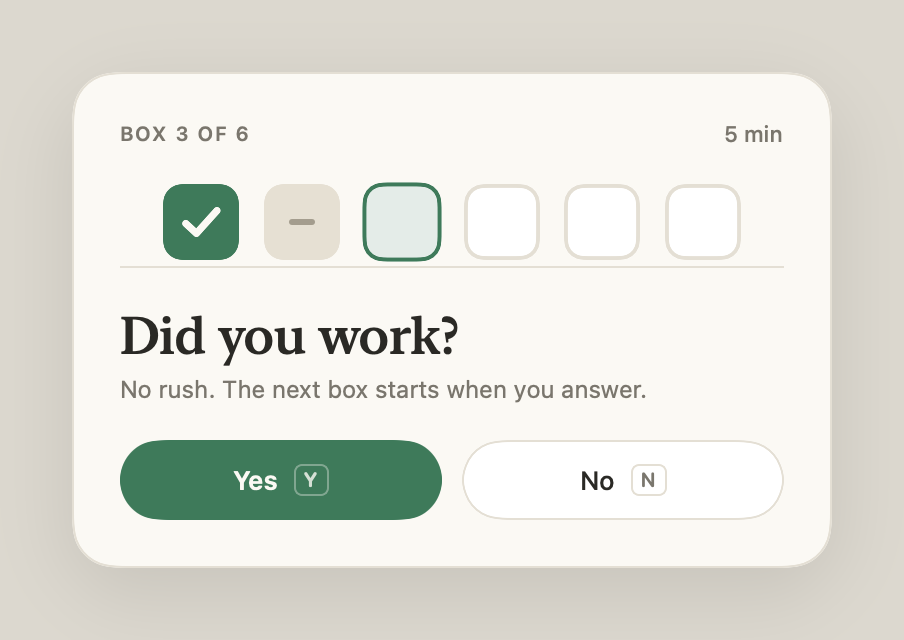
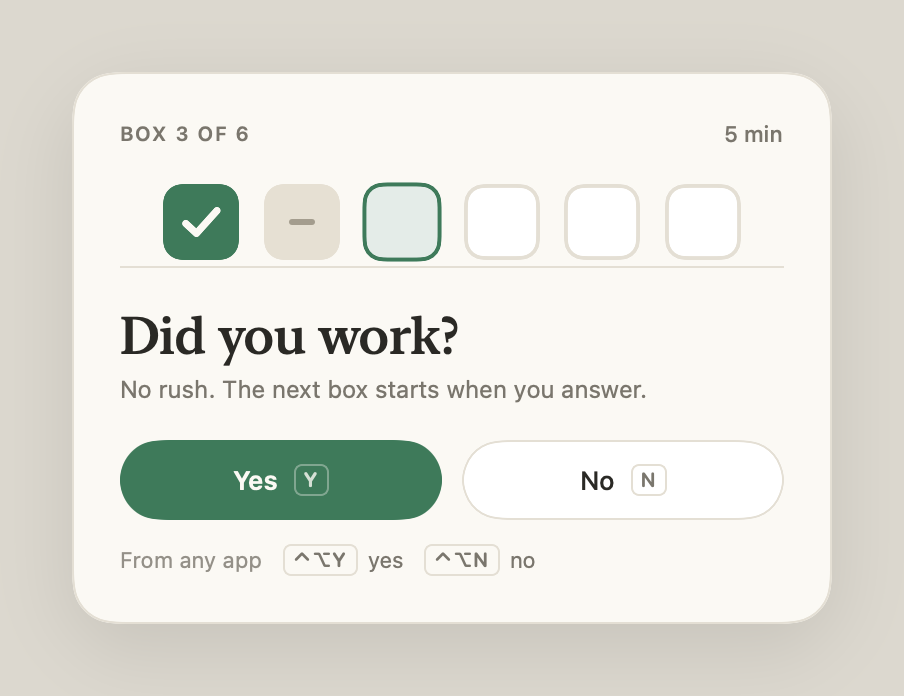
Answer check-ins from any app with ⌃⌥Y / ⌃⌥N (⌃⌥S on the last box)
While a check-in is pending, register global hotkeys that answer it
directly without focusing the card: ⌃⌥Y = yes, ⌃⌥N = no, and on the
last box ⌃⌥S = yes + start the next sprint. They are registered when the
engine enters awaitingCheckIn and released as soon as it leaves (answered,
cancelled, etc.), so the keys belong to other apps the rest of the time.
The card itself still never takes keyboard focus.

HotKey now supports several shortcuts at once: each gets a distinct
EventHotKeyID, and one shared Carbon handler routes presses by id
(read via GetEventParameter). Registration failures are logged; a taken
shortcut is hidden from the card. status.json lists the active
check-in shortcuts under "checkInHotKeys". ⌃⌥B is unchanged.

The check-in card shows a subtle "From any app" hint row with the keys.

diff --git a/Sources/Breadcrumbs/Services.swift b/Sources/Breadcrumbs/Services.swift
@@ -54,32 +54,76 @@ enum LoginItem {
     }
 }
 
+/// Global shortcuts that answer a pending check-in from any app. Registered only while a
+/// check-in is waiting, so they never shadow ⌃⌥Y/N/S in other apps the rest of the time.
+enum CheckInShortcut {
+    static let yes = "⌃⌥Y"
+    static let no = "⌃⌥N"
+    static let next = "⌃⌥S"
+}
+
 /// A system-wide shortcut via Carbon's RegisterEventHotKey (no Accessibility permission needed).
+/// Several can coexist: each gets its own EventHotKeyID, and one shared app-level handler
+/// routes a press to the instance whose id fired. Unregistered when the instance is released.
+/// Main thread only.
 final class HotKey {
     static let displayString = "⌃⌥B"
 
+    private static let signature = OSType(0x4252_4443) // 'BRDC'
+    private static var nextID: UInt32 = 1
+    private static var actions: [UInt32: () -> Void] = [:]
+    private static var handlerInstalled = false
+
+    let display: String
+    private let id: UInt32
     private var ref: EventHotKeyRef?
     private(set) var isRegistered = false
-    private var handlerRef: EventHandlerRef?
-    private let action: () -> Void
 
-    init(keyCode: Int = kVK_ANSI_B, modifiers: Int = controlKey | optionKey, action: @escaping () -> Void) {
-        self.action = action
-        var spec = EventTypeSpec(eventClass: OSType(kEventClassKeyboard), eventKind: UInt32(kEventHotKeyPressed))
-        let selfPtr = Unmanaged.passUnretained(self).toOpaque()
-        InstallEventHandler(GetApplicationEventTarget(), { _, _, userData in
-            guard let userData else { return noErr }
-            Unmanaged<HotKey>.fromOpaque(userData).takeUnretainedValue().action()
-            return noErr
-        }, 1, &spec, selfPtr, &handlerRef)
-        let id = EventHotKeyID(signature: OSType(0x4252_4443), id: 1) // 'BRDC'
-        let status = RegisterEventHotKey(UInt32(keyCode), UInt32(modifiers), id, GetApplicationEventTarget(), 0, &ref)
+    init(keyCode: Int = kVK_ANSI_B, modifiers: Int = controlKey | optionKey,
+         display: String = HotKey.displayString, action: @escaping () -> Void) {
+        self.display = display
+        id = Self.nextID
+        Self.nextID += 1
+        guard Self.installHandler() else { return }
+        let hotKeyID = EventHotKeyID(signature: Self.signature, id: id)
+        let status = RegisterEventHotKey(UInt32(keyCode), UInt32(modifiers), hotKeyID,
+                                         GetApplicationEventTarget(), 0, &ref)
         isRegistered = status == noErr
-        if !isRegistered { NSLog("Breadcrumbs: hotkey registration failed (\(status))") }
+        if isRegistered {
+            Self.actions[id] = action
+        } else {
+            ref = nil
+            NSLog("Breadcrumbs: hotkey \(display) registration failed (\(status)), likely taken by another app")
+        }
     }
 
-    deinit {
+    /// Releases the shortcut so other apps get the keystroke again.
+    func unregister() {
+        Self.actions[id] = nil
         if let ref { UnregisterEventHotKey(ref) }
-        if let handlerRef { RemoveEventHandler(handlerRef) }
+        ref = nil
+        isRegistered = false
+    }
+
+    deinit { unregister() }
+
+    /// Installs the one shared handler (kept for the app's lifetime).
+    private static func installHandler() -> Bool {
+        if handlerInstalled { return true }
+        var spec = EventTypeSpec(eventClass: OSType(kEventClassKeyboard), eventKind: UInt32(kEventHotKeyPressed))
+        let status = InstallEventHandler(GetApplicationEventTarget(), { _, event, _ in
+            guard let event else { return OSStatus(eventNotHandledErr) }
+            var hk = EventHotKeyID()
+            let err = GetEventParameter(event, EventParamName(kEventParamDirectObject), EventParamType(typeEventHotKeyID),
+                                        nil, MemoryLayout<EventHotKeyID>.size, nil, &hk)
+            guard err == noErr, hk.signature == HotKey.signature else { return OSStatus(eventNotHandledErr) }
+            let fired = hk.id
+            // Run after the Carbon callback returns, so an action may unregister hotkeys safely.
+            DispatchQueue.main.async { HotKey.actions[fired]?() }
+            return noErr
+        }, 1, &spec, nil, nil)
+        handlerInstalled = status == noErr
+        if !handlerInstalled { NSLog("Breadcrumbs: hotkey handler install failed (\(status))") }
+        return handlerInstalled
     }
 }

diff --git a/Sources/Breadcrumbs/App.swift b/Sources/Breadcrumbs/App.swift
@@ -1,5 +1,7 @@
 import AppKit
 import BreadcrumbsCore
+import Carbon.HIToolbox
+import Combine
 import SwiftUI
 
 struct BreadcrumbsApp: App {
@@ -21,6 +23,12 @@ final class AppDelegate: NSObject, NSApplicationDelegate {
     lazy var coordinator = WindowCoordinator(model: model)
     lazy var router = URLRouter(model: model, coordinator: coordinator)
     private var hotKey: HotKey?
+    /// ⌃⌥Y / ⌃⌥N (and ⌃⌥S on the last box), alive only while a check-in is pending.
+    private var checkInHotKeys: [HotKey] = []
+    private var checkInKeysWanted: CheckInKeys = .none
+    private var engineObserver: AnyCancellable?
+
+    private enum CheckInKeys { case none, yesNo, yesNoNext }
 
     func applicationWillFinishLaunching(_ notification: Notification) {
         installURLHandler()
@@ -36,7 +44,44 @@ final class AppDelegate: NSObject, NSApplicationDelegate {
             MainActor.assumeIsolated { self?.hotKeyPressed() }
         }
         model.hotKeyRegistered = hotKey?.isRegistered ?? false
+        // `$engine` emits the new value on every engine change (before views update), so the
+        // check-in shortcuts come and go with the awaitingCheckIn phase however it's left.
+        engineObserver = model.$engine.sink { [weak self] engine in
+            MainActor.assumeIsolated { self?.syncCheckInHotKeys(engine) }
+        }
         model.writeStatus()
+    }
+
+    private func syncCheckInHotKeys(_ engine: SprintEngine) {
+        let wanted: CheckInKeys
+        if engine.isAwaitingCheckIn, let s = engine.sprint {
+            wanted = s.currentIndex == s.config.boxes - 1 ? .yesNoNext : .yesNo
+        } else {
+            wanted = .none
+        }
+        guard wanted != checkInKeysWanted else { return }
+        checkInKeysWanted = wanted
+        checkInHotKeys.forEach { $0.unregister() }
+        checkInHotKeys = []
+        if wanted != .none {
+            // Actions re-check the phase: a press queued just as the check-in closed is a no-op.
+            checkInHotKeys.append(HotKey(keyCode: kVK_ANSI_Y, display: CheckInShortcut.yes) { [weak self] in
+                MainActor.assumeIsolated { self?.model.answer(worked: true) }
+            })
+            checkInHotKeys.append(HotKey(keyCode: kVK_ANSI_N, display: CheckInShortcut.no) { [weak self] in
+                MainActor.assumeIsolated { self?.model.answer(worked: false) }
+            })
+        }
+        if wanted == .yesNoNext {
+            checkInHotKeys.append(HotKey(keyCode: kVK_ANSI_S, display: CheckInShortcut.next) { [weak self] in
+                MainActor.assumeIsolated {
+                    guard let model = self?.model, model.isLastBoxCheckIn else { return }
+                    model.answer(worked: true, startNext: true)
+                }
+            })
+        }
+        model.checkInHotKeys = checkInHotKeys.filter(\.isRegistered).map(\.display)
+        model.unavailableCheckInHotKeys = Set(checkInHotKeys.filter { !$0.isRegistered }.map(\.display))
     }
 
     private func hotKeyPressed() {

diff --git a/Sources/Breadcrumbs/NudgeViews.swift b/Sources/Breadcrumbs/NudgeViews.swift
@@ -137,9 +137,34 @@ struct CheckInCard: View {
                 }
                 .buttonStyle(SecondaryButtonStyle(height: 40))
             }
+
+            if answered == nil {
+                globalHints(isLastBox: isLastBox)
+            }
         }
         .padding(24)
         .animation(Theme.spring, value: mode)
+    }
+
+    /// The global shortcuts that answer from any app, without focusing the card first.
+    @ViewBuilder private func globalHints(isLastBox: Bool) -> some View {
+        let hints = [(CheckInShortcut.yes, "yes"), (CheckInShortcut.no, "no")]
+            + (isLastBox ? [(CheckInShortcut.next, "next sprint")] : [])
+        let shown = hints.filter { !model.unavailableCheckInHotKeys.contains($0.0) }
+        if !shown.isEmpty {
+            HStack(spacing: 10) {
+                Text("From any app")
+                    .foregroundStyle(Theme.inkSoft.opacity(0.8))
+                ForEach(shown, id: \.0) { key, label in
+                    HStack(spacing: 5) {
+                        KeyHint(key: key)
+                        Text(label).foregroundStyle(Theme.inkSoft)
+                    }
+                }
+            }
+            .font(Theme.ui(11))
+            .padding(.top, -6)
+        }
     }
 
     private func headline(_ answered: Bool?) -> String {

diff --git a/Sources/Breadcrumbs/AppModel.swift b/Sources/Breadcrumbs/AppModel.swift
@@ -30,6 +30,10 @@ final class AppModel: ObservableObject {
     var onSprintStarted: (() -> Void)?
     var onCancelled: (() -> Void)?
     var hotKeyRegistered = false
+    /// Check-in shortcuts registered right now (empty unless a check-in is pending).
+    var checkInHotKeys: [String] = []
+    /// Check-in shortcuts that failed to register (taken by another app); the card hides them.
+    var unavailableCheckInHotKeys: Set<String> = []
 
     private var fastTimer: Timer?
     private var slowTimer: Timer?
@@ -274,6 +278,7 @@ final class AppModel: ObservableObject {
             "loginItemStatus": LoginItem.statusDescription,
             "updatedAt": ISO8601DateFormatter().string(from: Date()),
             "hotKeyRegistered": hotKeyRegistered,
+            "checkInHotKeys": checkInHotKeys,
         ]
         if let s = engine.sprint {
             dict["boxes"] = s.boxes.map(\.rawValue)

diff --git a/README.md b/README.md
@@ -52,7 +52,7 @@ Look for the small box icon in your menu bar.
 | To do this | Do this |
 |---|---|
 | Start a sprint | Click the box in the menu bar → **Start sprint**, or press **⌃⌥B** (Control-Option-B) from anywhere |
-| Answer a check-in | Click **Yes** or **No** on the card. To use the keyboard, press ⌃⌥B to focus the card, then **Y**, **N** or **Return** |
+| Answer a check-in | Click **Yes** or **No** on the card, or from any app press **⌃⌥Y** (yes) or **⌃⌥N** (no). On the last box, **⌃⌥S** ticks it and starts the next sprint. You can also press ⌃⌥B to focus the card, then **Y**, **N**, **S** or **Return** |
 | Pause, resume or cancel | Click the menu bar icon during a sprint |
 | Change box length or count | Menu bar → **Settings**: 1–60 minutes per box, 1–24 boxes per sprint |
 | See your history | Menu bar → **History**: today's count and the last 7 days |
@@ -61,7 +61,9 @@ The menu bar shows the time left on the current box while a sprint runs. The res
 shows how many boxes you've ticked today.
 
 The check-in card never takes over your keyboard, so you can't answer it by accident while you're
-typing somewhere else.
+typing somewhere else. ⌃⌥Y, ⌃⌥N and ⌃⌥S only work while a check-in is waiting; the rest of the
+time those keys go to your other apps as usual. If another app already owns one of them, the card
+leaves that shortcut off.
 
 ## Uninstall
 
